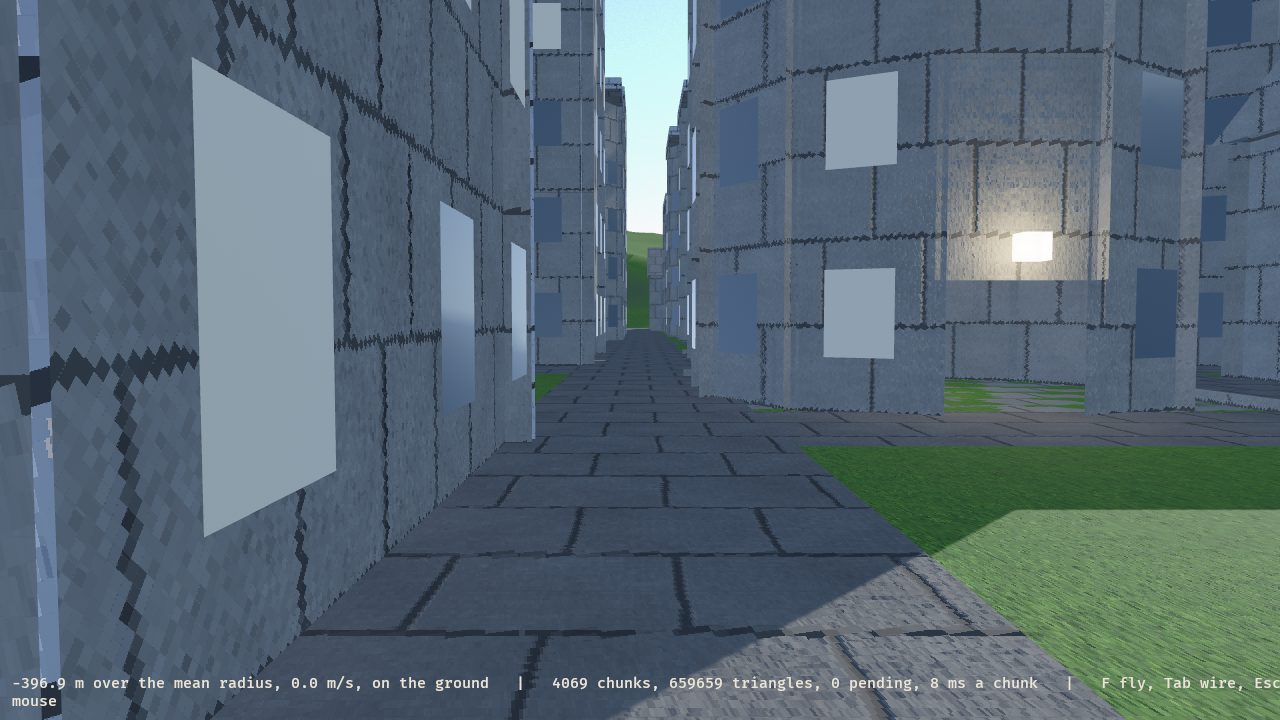
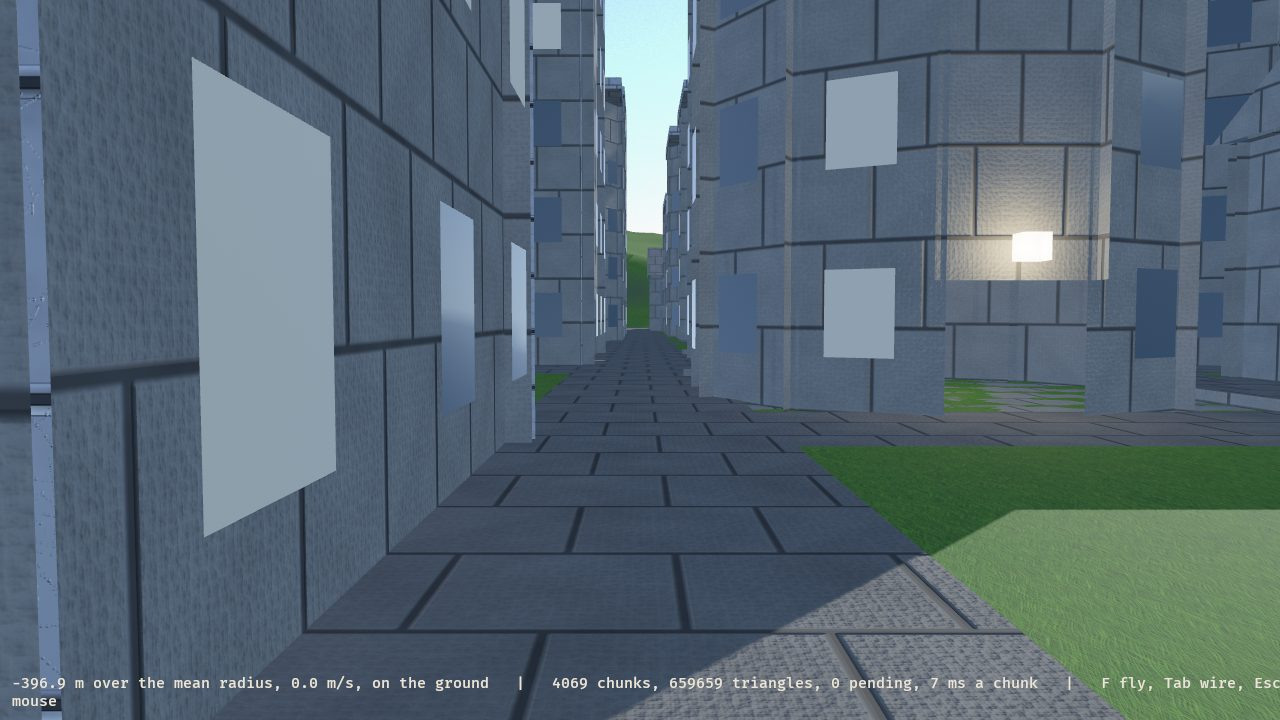
A texture coordinate is worked out in f64, never formed in the shader
The owner asked why the textures looked weird. It is neither the vertex
colours nor the models' geometry: it is the PRECISION of the coordinates
`terrain.wgsl` maps with, and the planet's growth to a thousand kilometres
is what broke it.

Every UV came from `rel = world_position - planet_centre`, a planet scale
vector held in `f32`. At the port `|rel|` is 999,603 m, where one float to
the next is 6.25 cm. Measured:

- the ground's coordinate takes EIGHT distinct values over two metres, so
  a 2 m tile is sampled in 32 steps rather than continuously;
- the concrete's, through `dot(up, east_t) * base` with `up` off the same
  quantised `rel`, takes 613 values over ten metres in treads of 1.5 to
  4.5 cm, with the scale drifting 0.7% (3.00 m reads as 2.98);
- and the sea's ripple coordinate takes 4 values a metre on features
  0.67 m across.

A staircased UV does not shift a texture, it wrecks it, because a GPU
picks its MIP LEVEL off the DERIVATIVE of the coordinate: nought along
each tread and a spike at every riser, so the mip choice is noise and a
wall comes out streaked and jagged. Every earlier picture looked right
because they were taken when the planet was five kilometres across, where
the same step is half a millimetre.

`to_mesh` hands every vertex the position the shader maps FROM, worked out
in `f64` where it is small and exact. A chunk's is its planet relative
place reduced MODULO the ground's tile, which keeps it small and keeps two
[…]

diff --git a/docs/freeport.html b/docs/freeport.html
@@ -385,7 +385,7 @@ figcaption { font-family: var(--mono); font-size: 12.5px; color: var(--dim); mar
   <h2>The world: rings of chunks, a sea, and cities as models</h2>
   <p class="lede">The whole of what the binary opens on: one density field, dual contoured a chunk at a time at whatever detail the eye is near enough to see, in rings round the eye on worker threads. There is a sea, eight towns whose buildings and streets are <b>parametric models</b> standing on ground the field levels for them, lamps that become lights near the eye, and the walker on the port's main street stopped by the same boxes the walls were drawn from. Everything in it is a rule in <code>freeport_core</code> with a test, and every picture here was taken headless on a software rasteriser before anybody walked round it. Past the coarsest ring there is nothing drawn, which is the impostor tier coming due and the biggest hole in the world as it stands.</p>
   <div class="pair wide">
-    <div class="shot"><img src="img/city-street.jpg" alt="On foot on a street of the port: paved street between concrete towers with lit and dark window panes, a glowing lamp on the right, grass beyond the paving"><div class="cap"><b>A street of the port</b>where the walker starts, on the thousand kilometre planet: the buildings are models welded into one mesh a town, the paving is one quad a piece five centimetres over levelled ground, and the concrete is mapped in the town's frame so the panels are level and plumb</div></div>
+    <div class="shot"><img src="img/city-street.jpg" alt="On foot on a street of the port: paved street between concrete towers with lit and dark window panes, a glowing lamp on the right, grass beyond the paving"><div class="cap"><b>A street of the port</b>where the walker starts, on the thousand kilometre planet: the buildings are models welded into one mesh a town, the paving is one quad a piece five centimetres over levelled ground, and every texture coordinate is a number the CPU worked out in f64, which is the fix below</div></div>
     <div class="shot"><img src="img/city-air.jpg" alt="The port from fifty metres up: a grid of concrete towers with parapets and lit windows, gabled roofs among them, streets between, grass and a beach and the sea beyond"><div class="cap"><b>The same town from 55 m</b>699 buildings and 7,744 pieces of street over eight towns, modelled in 30 ms at startup and untouched after it: towers with parapets and plate pillars in the middle, gables at the edge, the levelled site under all of it and the shore past the skirt</div></div>
   </div>
   <div class="pair wide">
@@ -400,6 +400,9 @@ figcaption { font-family: var(--mono); font-size: 12.5px; color: var(--dim); mar
   <p>Candidates come off a golden spiral round the planet; a town stands on land three to forty metres over the sea, nearly level across, apart from the others, and the first that qualifies is the port. Blocks of ten metres on a pitch of fourteen, a lot a block, taller near the middle, streets in 3.5 m pieces each on its own patch, and the ground levelled to the town's height by the planet's own field, which is the one thing a town still does to the terrain and is a term in the field rather than a second lattice.</p>
   <p>A building used to be a recipe of signed distance brushes evaluated in that field on a lattice six times finer under each town. It is a MODEL now, which is the owner's ask: triangles built from numbers, beside the field rather than in it. The rule that keeps the old guarantee is that a wall is ONE oriented box which is both drawn and collided, so the picture and the collider are the same numbers and cannot drift, while a parapet, an eave, a pane and a lamp are trim that only draws and never stops a body. Five kinds: a block with plate pillars and a parapet, a house under a gable, a bungalow, a round tower of twelve boxes in a ring, a hangar under a barrel vault. Every one is a shell with a doorway, and the test walks a line from two metres outside the door to the middle of the room and holds every point of it air. Floors and stairs are what is missing, and they are named rather than hidden: a building is one room to the roof until somebody writes them.</p>
   <p>What it bought: the mesher never sees a building, so a chunk under a city costs what a chunk in the wilderness costs, where the first cut tested eight thousand boxes a chunk over five thousand chunks every time a ring moved. A town's lots and street pieces weld into ONE mesh in the town's own frame, carried there in f64 and then cast, so eight towns are eight draws and an f32 in a town's frame holds a micron. 699 buildings and 7,744 pieces of street come to 192,646 triangles, 6,635 collision boxes and 2,771 lamps, modelled in 30 ms at startup and untouched after it.</p>
+  <h3>A texture coordinate is worked out in f64, never formed in the shader</h3>
+  <p>Every UV came from <code>world_position - planet_centre</code>, a planet scale vector in <code>f32</code>. At the port that vector's own float steps in <b>6.25 cm</b>, so the ground's texture coordinate took eight distinct values over two metres of walking: a two metre tile sampled in 32 steps. The concrete on a wall was worse in kind, because it went through a dot product with a quantised radial and back up by the radius: 613 values over ten metres, treads of 1.5 to 4.5 cm, and a scale that drifted. What that does is not a shifted texture but a wrecked one, because a GPU picks its MIP LEVEL off the DERIVATIVE of the coordinate, and a staircase has a derivative of nought along each tread and a spike at every riser, so the mip choice is noise and a wall comes out streaked and jagged. Every earlier picture looked right because the planet was five kilometres across, where the same step is half a millimetre.</p>
+  <p>So the mesh carries it: every vertex is handed the position the shader maps from, worked out in <code>f64</code> where it is small and exact, and the fragment does no arithmetic on it at all. A chunk's is its planet relative place reduced <b>modulo the tile</b>, which keeps it small and keeps two chunks agreeing, since a triplanar tiling is periodic; a building's is the town frame position its model was already written in. The height over the sea rides the same vertex, because the sand band is a metre and a half wide and was being measured in six centimetre steps. 18.6% of the picture moved. The sea has the same disease and a harder cure: <code>fbm3</code> is not periodic, so there is no modulus to reduce by, and the honest fix is a noise that takes a lattice cell and a fraction rather than one float per axis.</p>
   <div class="aside"><b>What the pictures found.</b> The panel seams ran across every wall at the angle between the building and the planet's axes, because concrete was mapped in the planet's frame; the owner read it off the picture, and concrete, plate and street are mapped in the nearest town's frame now, east and north on the sphere the town's ground is at and height off it. The far grass read as dots, because the array textures had no mip chains; every layer carries one now, with eight samples of anisotropy. And deleting the recipes left the whole world flat coloured, because the harness decided where its asset root was by looking for <code>assets/buildings</code>: it looks for the textures now, which is the thing that actually lives there.</div>
 </section>
 

diff --git a/crates/freeport_app/src/terrain.rs b/crates/freeport_app/src/terrain.rs
@@ -12,6 +12,7 @@
 
 use bevy::asset::{embedded_asset, RenderAssetUsages};
 use bevy::image::{ImageAddressMode, ImageFilterMode, ImageSampler, ImageSamplerDescriptor};
+use bevy::math::DVec3;
 use bevy::mesh::PrimitiveTopology;
 use bevy::pbr::{ExtendedMaterial, MaterialExtension};
 use bevy::prelude::*;
@@ -295,13 +296,32 @@ const CREASE: f32 = 0.35;
 /// it takes the face's: a box face is shaded on its own plane and meets the
 /// next on an edge, the ground stays round, and where the ground meets a
 /// wall only the corner on the crease changes, so the shading on either
-/// side of it is continuous. The vertex colour carries the triangle's
-/// material in red and the vertex's level in green, flat, every corner the
-/// same, so no driver's choice of provoking vertex can change either.
-pub fn to_mesh(m: &DcMesh) -> Mesh {
+/// side of it is continuous.
+///
+/// Every vertex carries FOUR numbers besides its place: the triangle's
+/// material in the colour's red, flat, every corner the same so no
+/// driver's choice of provoking vertex can change it, and the position the
+/// SHADER MAPS FROM in the other three, which `place` answers along with
+/// how far over the sea the vertex stands (the `uv`).
+///
+/// That mapping position is the whole reason this signature has a closure
+/// in it. The shader used to work it out itself, from
+/// `world_position - planet_centre`, and at a thousand kilometres that
+/// vector's own `f32` steps in 6.25 cm: a two metre tile of grass came out
+/// sampled at 32 steps rather than continuously, and since a GPU picks its
+/// mip level off the DERIVATIVE of a texture coordinate, a coordinate that
+/// is a staircase has a derivative of nought along each tread and a spike
+/// at every riser, so the mip choice was noise. It is the rule this
+/// project already keeps for meshes, arriving at the one place that still
+/// broke it: nothing forms a planet scale number in `f32` and then
+/// measures centimetres inside it. The caller computes the position in
+/// `f64` where it is small and exact, and the fragment does no arithmetic
+/// on it at all.
+pub fn to_mesh(m: &DcMesh, place: impl Fn(Vec3) -> (Vec3, f32)) -> Mesh {
     let mut positions = Vec::with_capacity(m.indices.len());
     let mut normals = Vec::with_capacity(m.indices.len());
     let mut colours = Vec::with_capacity(m.indices.len());
+    let mut uvs = Vec::with_capacity(m.indices.len());
     for (t, material) in m.indices.chunks(3).zip(&m.materials) {
         let p: Vec<Vec3> = t
             .iter()
@@ -310,13 +330,15 @@ pub fn to_mesh(m: &DcMesh) -> Mesh {
         let face = (p[1] - p[0]).cross(p[2] - p[0]).normalize_or(Vec3::Y);
         for (k, &i) in t.iter().enumerate() {
             let n = Vec3::from(m.normals[i as usize]);
+            let (map, over) = place(p[k]);
             positions.push(p[k].to_array());
             normals.push(if n.angle_between(face) > CREASE {
                 face.to_array()
             } else {
                 n.to_array()
             });
-            colours.push([*material as f32, m.levels[i as usize] as f32, 0.0, 1.0]);
+            colours.push([*material as f32, map.x, map.y, map.z]);
+            uvs.push([over, 0.0]);
         }
     }
     Mesh::new(
@@ -326,4 +348,28 @@ pub fn to_mesh(m: &DcMesh) -> Mesh {
     .with_inserted_attribute(Mesh::ATTRIBUTE_POSITION, positions)
     .with_inserted_attribute(Mesh::ATTRIBUTE_NORMAL, normals)
     .with_inserted_attribute(Mesh::ATTRIBUTE_COLOR, colours)
+    .with_inserted_attribute(Mesh::ATTRIBUTE_UV_0, uvs)
+}
+
+/// Where a chunk's vertex is mapped from: its planet relative position
+/// reduced MODULO the ground's own tile, so the number the shader maps
+/// with is metres rather than a planet's radius, and two chunks that meet
+/// still agree, because a triplanar tiling is periodic and congruence
+/// modulo the tile is all a seam needs. The height over the sea rides
+/// along, measured in `f64` for the same reason: it is a band a metre and
+/// a half wide and it was quantised at six centimetres.
+pub fn chunk_mapping(corner: DVec3, sea: f64) -> impl Fn(Vec3) -> (Vec3, f32) {
+    let tile = GROUND_TILE as f64;
+    let anchor = DVec3::new(
+        corner.x.rem_euclid(tile),
+        corner.y.rem_euclid(tile),
+        corner.z.rem_euclid(tile),
+    );
+    move |p: Vec3| {
+        let local = p.as_dvec3();
+        (
+            (anchor + local).as_vec3(),
+            ((corner + local).length() - sea) as f32,
+        )
+    }
 }

diff --git a/crates/freeport_app/src/city.rs b/crates/freeport_app/src/city.rs
@@ -15,6 +15,7 @@
 use crate::stream::{Anchored, Frame};
 use crate::terrain::{to_mesh, TerrainMaterial};
 use crate::world::TownMesh;
+use bevy::math::DVec3;
 use bevy::prelude::*;
 use freeport_core::pos::WorldPos;
 
@@ -28,13 +29,22 @@ pub fn spawn_towns(
     meshes: &mut Assets<Mesh>,
     material: &Handle<TerrainMaterial>,
     frame: &Frame,
+    sea: f64,
     towns: Vec<TownMesh>,
 ) {
     for town in towns {
         if town.mesh.indices.is_empty() {
             continue;
         }
-        let at = WorldPos(town.frame.world(bevy::math::DVec3::ZERO));
+        let at = WorldPos(town.frame.world(DVec3::ZERO));
+        // A model's vertices are ALREADY in the frame the concrete is
+        // mapped in, east, north and up from the town's own middle, and
+        // they are metres, so the shader maps from them as they stand.
+        // That is the same rule the chunks keep, arrived at for free: the
+        // number a texture coordinate is made of is never a planet's
+        // radius held in an f32.
+        let world = town.frame;
+        let place = move |p: Vec3| (p, (world.world(p.as_dvec3()).length() - sea) as f32);
         // The mesh is written east, north and up in the town's frame, so
         // the entity carries that frame's own rotation and the origin
         // carries where it is.
@@ -44,7 +54,7 @@ pub fn spawn_towns(
             town.frame.dir.as_vec3(),
         );
         commands.spawn((
-            Mesh3d(meshes.add(to_mesh(&town.mesh))),
+            Mesh3d(meshes.add(to_mesh(&town.mesh, place))),
             MeshMaterial3d(material.clone()),
             Transform {
                 translation: frame.0.local(at),

diff --git a/crates/freeport_app/src/stream.rs b/crates/freeport_app/src/stream.rs
@@ -18,7 +18,7 @@
 //! which follows the eye and moves every chunk with it when it does. The
 //! subtraction is the precise step and it happens once, in `f64`.
 
-use crate::terrain::{to_mesh, TerrainMaterial};
+use crate::terrain::{chunk_mapping, to_mesh, TerrainMaterial};
 use crate::water::{recentre, to_sheet, Sheet, WaterMaterial};
 use crate::{Eye, Ground, World};
 use bevy::math::DVec3;
@@ -105,6 +105,8 @@ pub struct Streamer {
     workers: usize,
     material: Handle<TerrainMaterial>,
     water: Handle<WaterMaterial>,
+    /// The sea's radius, which every vertex's height is measured from.
+    sea: f64,
     fresh: bool,
     pub stats: Stats,
     started: Instant,
@@ -118,6 +120,7 @@ impl Streamer {
         lat: Lattice,
         eye: DVec3,
         levels: u8,
+        sea: f64,
         material: Handle<TerrainMaterial>,
         water: Handle<WaterMaterial>,
     ) -> Self {
@@ -137,6 +140,7 @@ impl Streamer {
             workers,
             material,
             water,
+            sea,
             fresh: true,
             stats: Stats::default(),
             started: Instant::now(),
@@ -257,7 +261,9 @@ impl Streamer {
                 entities.push(
                     commands
                         .spawn((
-                            Mesh3d(meshes.add(to_mesh(&done.mesh))),
+                            Mesh3d(
+                                meshes.add(to_mesh(&done.mesh, chunk_mapping(corner.0, self.sea))),
+                            ),
                             MeshMaterial3d(self.material.clone()),
                             at,
                             chunk(),

diff --git a/crates/freeport_app/src/main.rs b/crates/freeport_app/src/main.rs
@@ -286,6 +286,7 @@ fn spawn_world(
         lat,
         eye,
         args.levels,
+        SEA,
         material.clone(),
         sheet,
     ));
@@ -295,6 +296,7 @@ fn spawn_world(
         &mut meshes,
         &material,
         &Frame::default(),
+        SEA,
         towns,
     );
     // The sun, and everything that reads it: the WORLD's own start decides

diff --git a/CLAUDE.md b/CLAUDE.md
@@ -840,6 +840,48 @@ models wear the SAME material the ground does, so a wall and a hillside are
 one shader and one set of sets. The sea's two, `SURFACE` and `BURIED`, are
 the same channel on the other mesh.
 
+**A texture coordinate is a number the CPU works out, never one the
+fragment forms.** Every UV used to come from `rel = world_position -
+planet_centre`, a planet scale vector held in `f32`. At the port `|rel|`
+is 999,603 m, where one `f32` to the next is 6.25 cm, so the ground's own
+coordinate took EIGHT distinct values over two metres of walking: a two
+metre tile sampled in 32 steps. The concrete on a wall was worse in kind,
+because it went through `dot(up, east_t) * base` with `up` off that same
+quantised `rel`: 613 values over ten metres, treads of 1.5 to 4.5 cm, and
+a scale that drifted (3.00 m read as 2.98). What that does to a picture is
+not a shifted texture but a wrecked one, because a GPU picks its MIP LEVEL
+off the DERIVATIVE of the coordinate: a staircase has a derivative of
+nought along each tread and a spike at every riser, so the mip choice is
+noise and the wall comes out streaked and jagged. It is the rule this file
+keeps for meshes ("at a thousand kilometres that quantisation is six
+centimetres and the warning is the whole surface") arriving at the one
+place that still broke it, and it is why every earlier picture looked
+right: on a five kilometre planet the step is half a millimetre.
+
+Measured as a picture, the same frame before and after: 18.6% of pixels
+moved by more than 8 of 255. So `to_mesh` hands every vertex the position the shader maps FROM, worked
+out in `f64` where it is small and exact, and the fragment does no
+arithmetic on it at all. A chunk's is its planet relative place reduced
+MODULO the ground's own tile, which is what makes it small and keeps two
+chunks agreeing, since a triplanar tiling is periodic and congruence
+modulo the tile is all a seam needs; every chunk corner on this lattice
+has the same residue, so the whole planet shares one offset. A built
+thing's is the town frame position its model was already written in, ±90 m
+and exact, so `in_frame` computes only the frame's AXES now (unit vectors,
+which cost no precision) and never where the point is. The height over the
+sea rides the same vertex, because the sand band is a metre and a half
+wide and `length(rel) - sea` measured it in six centimetre steps.
+
+**The sea has the same disease and a harder cure.** `water.wgsl` takes its
+swell and its ripples from `q = world_position - centre` in `f32` too:
+over a metre of water the ripple coordinate takes four values, 8.3 cm
+steps on features about 0.67 m across. The terrain's fix does not port,
+because `fbm3` is NOT periodic, so there is no modulus to reduce by and an
+offset per chunk would put a seam in the sea wherever two offsets met. The
+honest cure is a noise that takes a lattice CELL and a fraction rather
+than one float per axis, which is how noise is evaluated on a big world,
+and it is named here rather than bodged.
+
 **The shader is the mockup's, transcribed.** `terrain.wgsl` is an extension
 on Bevy's standard material: `tri` and `triN` line for line (three planes
 weighted by the normal's fourth power, a normal map read on each and turned
@@ -1238,6 +1280,16 @@ Numbers in the commit message. What is measured so far:
 - The sets: five on the ground (basalt, dunes, grass, concrete and hull
   plate), at 1024 a side, three array textures of five layers, each layer
   with an eleven level mip chain built at load.
+- What a planet scale `f32` did to a texture coordinate, at the port, where
+  `|rel|` is 999,603 m and one float to the next is 6.25 cm: the ground's
+  own coordinate took 8 distinct values over two metres, so a 2 m tile was
+  sampled in 32 steps; the concrete's took 613 over ten metres, in treads
+  of 1.5 to 4.5 cm, with the scale drifting 0.7%; and the sea's ripples
+  take 4 values a metre on features 0.67 m across. The first two are fixed
+  by mapping from a position the CPU works out in f64 (18.6% of the
+  picture moved), and the sea's wants a noise that takes a cell and a
+  fraction. On a five kilometre planet the same step is half a millimetre,
+  which is why every earlier picture looked right.
 - The walker, headless in the core, on a 2 km ball: 8 to 10 m in two
   seconds walking and over 14 running, a jump to between 1.0 and 1.6 m
   landing inside 1.3 s, a 0.4 m kerb climbed, a 1.2 m wall stopping the
